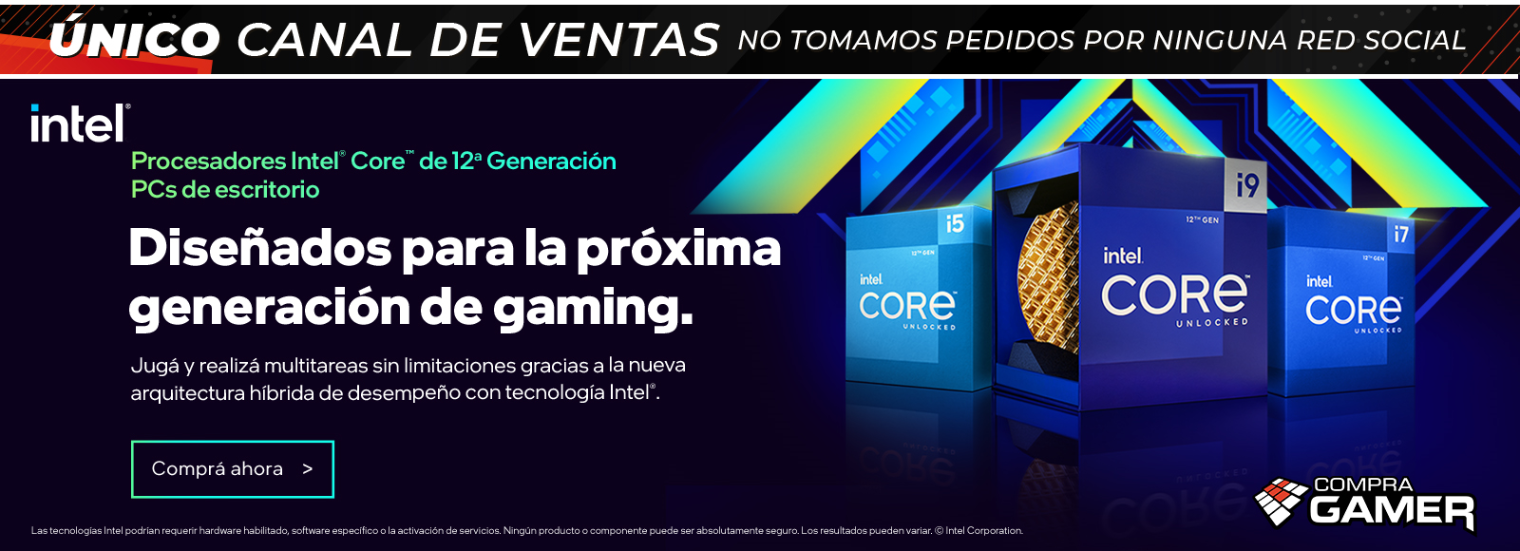
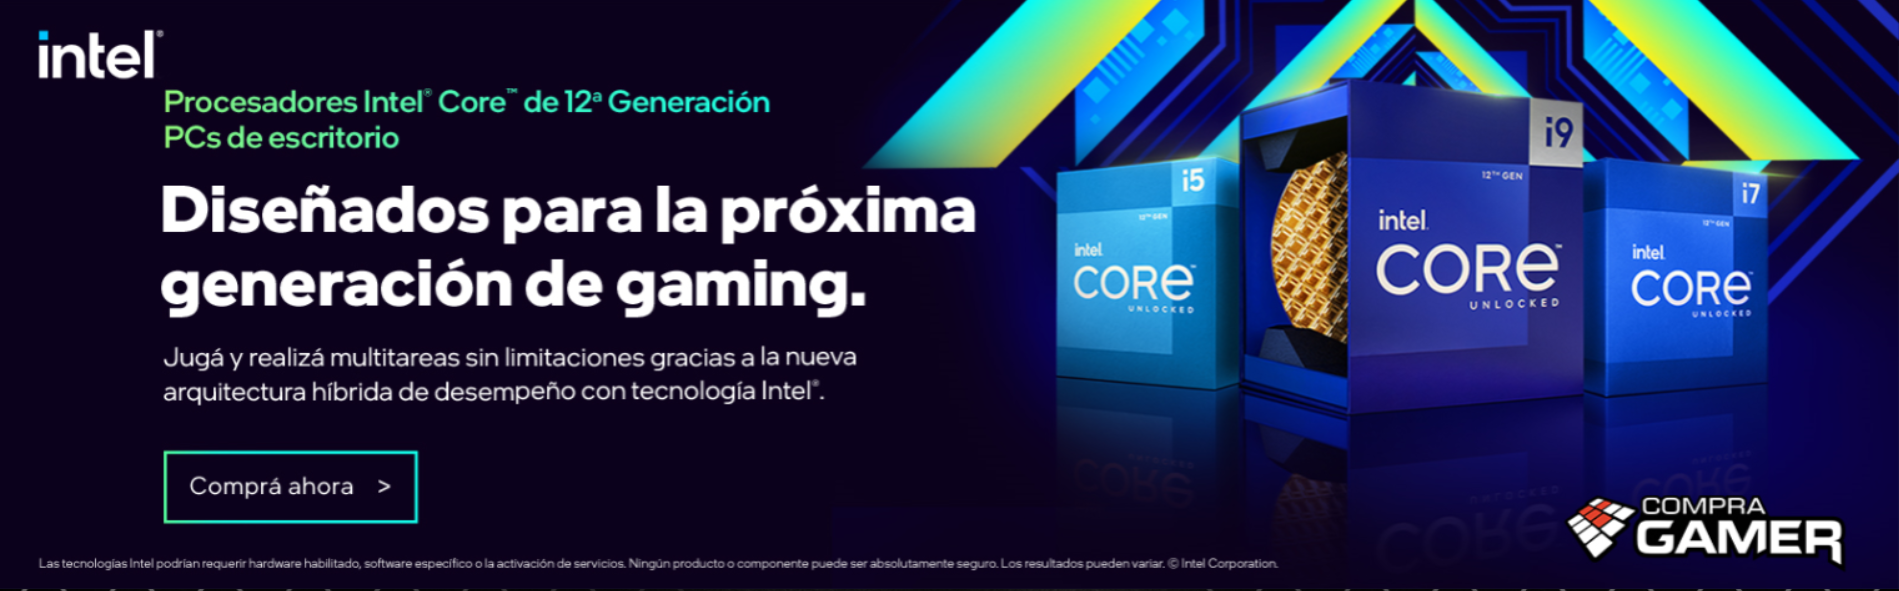
se agrega carrousel en el inicio

diff --git a/index.html b/index.html
@@ -4,6 +4,9 @@
     <meta charset="UTF-8">
     <meta http-equiv="X-UA-Compatible" content="IE=edge">
     <meta name="viewport" content="width=device-width, initial-scale=1.0">
+    <!-- bootstrap -->
+    <link href="https://cdn.jsdelivr.net/npm/bootstrap@5.1.3/dist/css/bootstrap.min.css" rel="stylesheet" integrity="sha384-1BmE4kWBq78iYhFldvKuhfTAU6auU8tT94WrHftjDbrCEXSU1oBoqyl2QvZ6jIW3" crossorigin="anonymous">
+
     <!--Vinculo css-->
     <link rel="stylesheet" href="backup.css">
     <link href="https://cdn.jsdelivr.net/npm/bootstrap@5.1.3/dist/css/bootstrap.min.css" rel="stylesheet" integrity="sha384-1BmE4kWBq78iYhFldvKuhfTAU6auU8tT94WrHftjDbrCEXSU1oBoqyl2QvZ6jIW3" crossorigin="anonymous">
@@ -27,8 +30,32 @@
 </header>
 
 <!-- Seccion banner -->
-<section class="post-header">
+<!-- <section class="post-header">
    <div class="banner"><img src="multimedia/Banner.png" alt="banner"></div>
+</section> -->
+
+<section class="post-header">
+  <div id="carouselExampleControls" class="carousel slide" data-bs-ride="carousel">
+    <div class="carousel-inner">
+      <div class="carousel-item active">
+        <img src="Multimedia/Banner.png" class="d-block w-100" alt="banner">
+      </div>
+      <div class="carousel-item">
+        <img src="Multimedia/banner-dos.png" class="d-block w-100" alt="banner">
+      </div>
+      <div class="carousel-item">
+        <img src="Multimedia/banner-tres.png" class="d-block w-100" alt="banner">
+      </div>
+    </div>
+    <button class="carousel-control-prev" type="button" data-bs-target="#carouselExampleControls" data-bs-slide="prev">
+      <span class="carousel-control-prev-icon" aria-hidden="true"></span>
+      <span class="visually-hidden">Previous</span>
+    </button>
+    <button class="carousel-control-next" type="button" data-bs-target="#carouselExampleControls" data-bs-slide="next">
+      <span class="carousel-control-next-icon" aria-hidden="true"></span>
+      <span class="visually-hidden">Next</span>
+    </button>
+  </div>
 </section>
 
 <!-- Aside -->
@@ -49,6 +76,21 @@
         </div>
       </div>
 </footer>
+
+
+
+
+
+
+
+
+
+<!-- bootstrap -->
+<script src="https://cdn.jsdelivr.net/npm/bootstrap@5.1.3/dist/js/bootstrap.bundle.min.js" integrity="sha384-ka7Sk0Gln4gmtz2MlQnikT1wXgYsOg+OMhuP+IlRH9sENBO0LRn5q+8nbTov4+1p" crossorigin="anonymous"></script>
+
+<script src="https://cdn.jsdelivr.net/npm/@popperjs/core@2.10.2/dist/umd/popper.min.js" integrity="sha384-7+zCNj/IqJ95wo16oMtfsKbZ9ccEh31eOz1HGyDuCQ6wgnyJNSYdrPa03rtR1zdB" crossorigin="anonymous"></script>
+<script src="https://cdn.jsdelivr.net/npm/bootstrap@5.1.3/dist/js/bootstrap.min.js" integrity="sha384-QJHtvGhmr9XOIpI6YVutG+2QOK9T+ZnN4kzFN1RtK3zEFEIsxhlmWl5/YESvpZ13" crossorigin="anonymous"></script>
+
 
 </body>
 </html>

diff --git a/backup.css b/backup.css
@@ -5,6 +5,7 @@
 
 .banner img{
     width: 100%;
+    padding-top: 39px;
 }
 
 header {
@@ -51,6 +52,7 @@ header h1{
 
 .post-header {
     background-color: darkslategray;
+    padding-top: 120px;
 }
 
 aside img {
@@ -121,7 +123,7 @@ aside img {
 /* APLICAMOS ESTILOS PARA AYUDA */
 
 /* Le damos forma al header */
-
+/* 
 header {
     width: 100%;
     background-color: rgb(9, 15, 15);
@@ -182,7 +184,7 @@ header h1{
         color: #ff7300;
         background-color: black;
         font-family: Arial, Helvetica, sans-serif; 
-    }
+    } */
 
 
     /* AGREGAMOS ESTILOS A RENDIMIENTOS */

diff --git a/ayuda.html b/ayuda.html
@@ -70,7 +70,7 @@
     </section>
 
     <footer class="footer-prod">
-        <h6>Todos los derechos reservados</h6>
+        <h6 class="h-seis">Todos los derechos reservados</h6>
     </footer>
 </body>
 </html>
